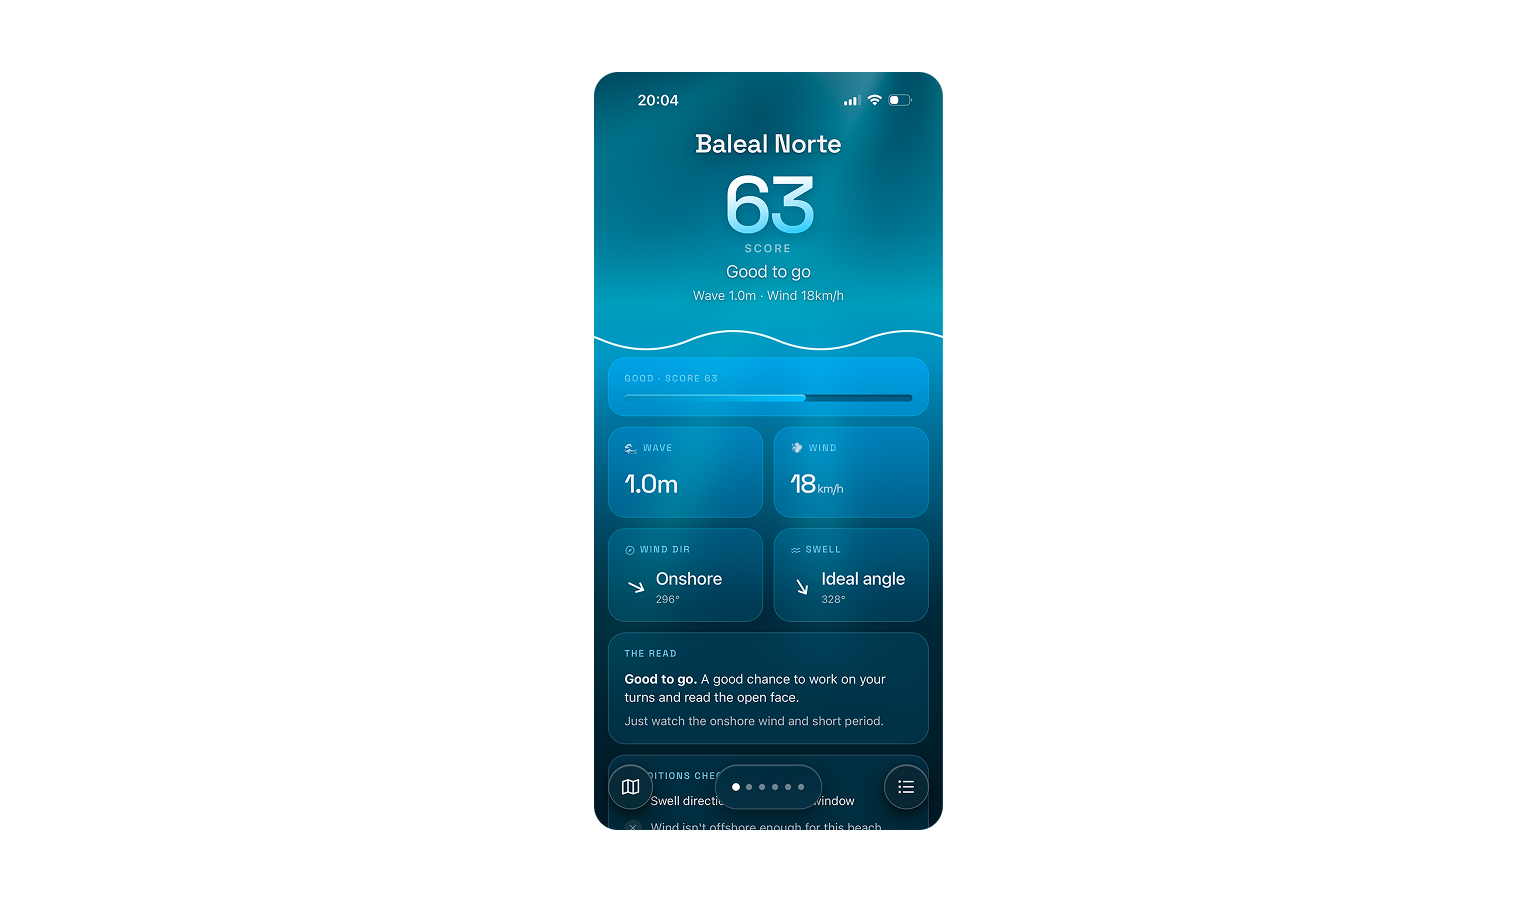
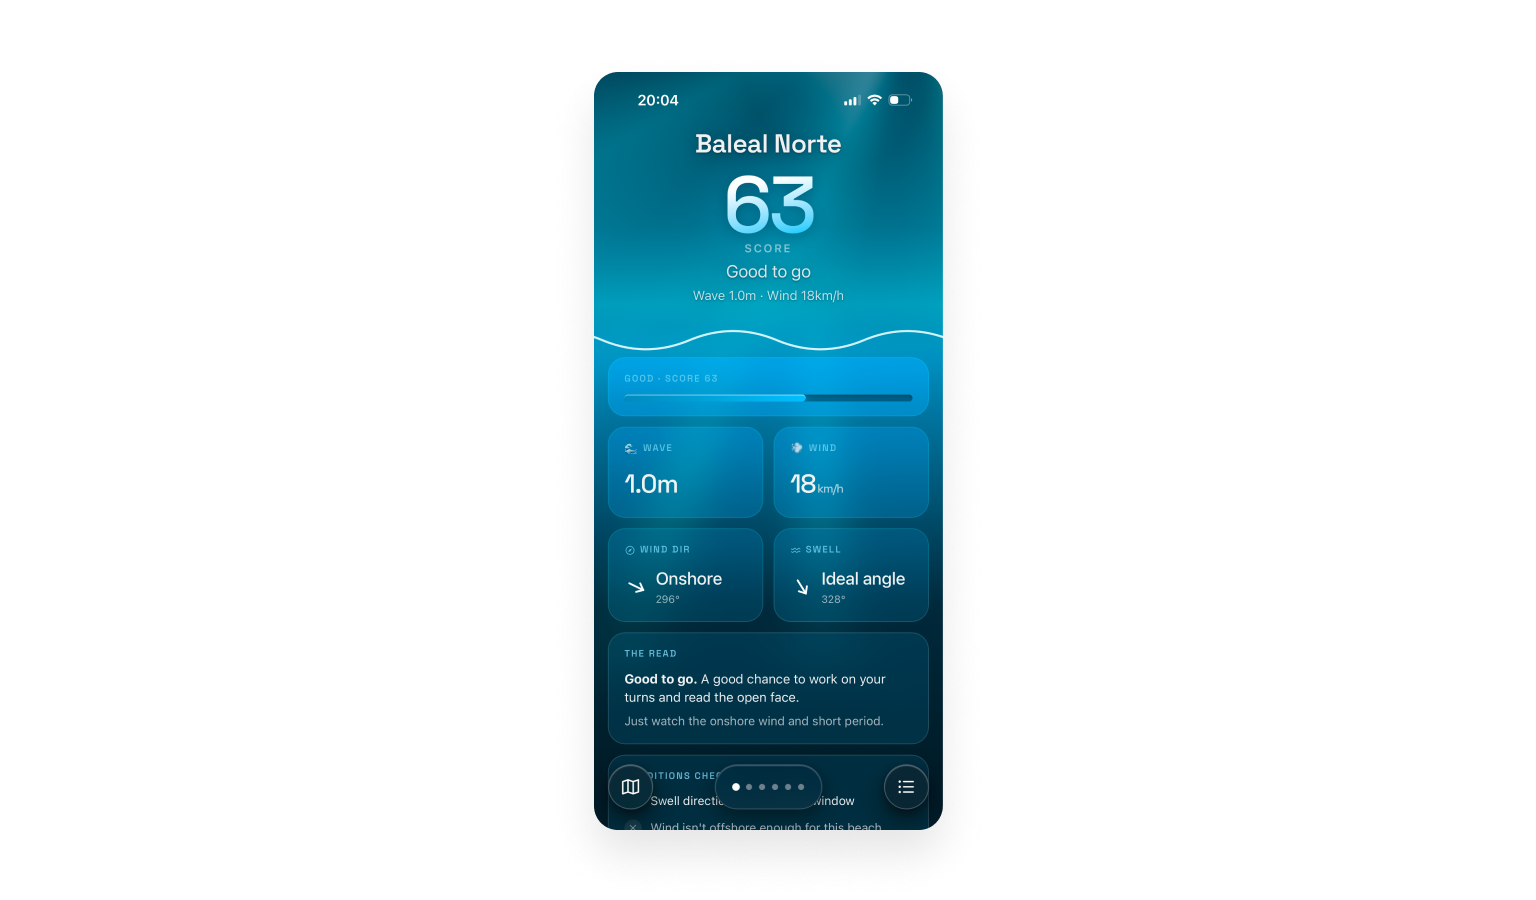
Fix hover color rotation, reorder work grid, and add auto dark mode
Realign hover palette to the actual project order, swap Swell
Club/Earr and Marketplace/AI Global Search positions, hide Sidebar
Navigation instead of Marketplace, soften dark-mode contact icons,
drop an em-dash from Swell Club copy, and default to dark mode after
18:00 Italy time.

diff --git a/src/app/data/projects.tsx b/src/app/data/projects.tsx
@@ -125,6 +125,29 @@ import image_swell_3 from 'figma:asset/swell club/3_swell-img-3.png';
 // Mock Data
 export const PROJECTS = [
   {
+    id: "swell-club",
+    title: "Swell Club",
+    category: "Side Project",
+    role: "Product Designer & Builder",
+    image: image_swell_cover,
+    description: "A surf-conditions PWA that turns raw forecast data into a single readable score, tuned to your skill level.",
+    additionalImages: [
+      image_swell_2,
+      image_swell_3,
+    ],
+    content: {
+      contribution: "Product design, Interaction design, Engineering (Claude Code), Architecture",
+      overview: (
+        <>
+          A mobile-first PWA for surfers checking conditions at Peniche and Ericeira. Instead of raw swell/wind/wave numbers, Swell Club scores each spot against your level (beginner, intermediate, advanced) and tells you plainly whether it's worth paddling out, with the reasoning behind the score, a live map, and per-spot detail pages with wind direction, swell angle, and wave height.
+        </>
+      ),
+      techStack: "React, TypeScript, Vite, n8n",
+      outcome: "swell-club-live-beta",
+      credits: "",
+    },
+  },
+  {
     id: "picky",
     title: "Earr",
     category: "Side Project",
@@ -147,29 +170,6 @@ export const PROJECTS = [
       outcome: "",
       techStack: "React, Vite, TypeScript, Tailwind, Framer Motion, Zustand, Claude API, Spotify Web API, YouTube Data API, GitHub Actions, Vercel",
       outcome: "picky-live-beta",
-      credits: "",
-    },
-  },
-  {
-    id: "swell-club",
-    title: "Swell Club",
-    category: "Side Project",
-    role: "Product Designer & Builder",
-    image: image_swell_cover,
-    description: "A surf-conditions PWA that turns raw forecast data into a single readable score, tuned to your skill level.",
-    additionalImages: [
-      image_swell_2,
-      image_swell_3,
-    ],
-    content: {
-      contribution: "Product design, Interaction design, Engineering (Claude Code), Architecture",
-      overview: (
-        <>
-          A mobile-first PWA for surfers checking conditions at Peniche and Ericeira. Instead of raw swell/wind/wave numbers, Swell Club scores each spot against your level (beginner, intermediate, advanced) and tells you plainly whether it's worth paddling out — with the reasoning behind the score, a live map, and per-spot detail pages with wind direction, swell angle, and wave height.
-        </>
-      ),
-      techStack: "React, TypeScript, Vite, n8n",
-      outcome: "swell-club-live-beta",
       credits: "",
     },
   },
@@ -228,6 +228,31 @@ export const PROJECTS = [
     }
   },
   {
+    id: "marketplace",
+    title: "Deel Marketplace",
+    category: "Product",
+    role: "Staff Product Designer",
+    image: image_marketplace_cover,
+    description: "A marketplace experience that lets companies discover, evaluate, and connect 80+ integrations to their Deel workspace",
+    additionalImages: [
+      image_marketplace_1,
+      image_marketplace_2,
+      image_marketplace_3,
+      image_marketplace_4,
+    ],
+    content: {
+      contribution: "UX design, Interaction design, Design systems",
+      overview: (
+        <>
+          A marketplace experience that lets companies discover, evaluate, and connect 80+ integrations to their Deel workspace — from HRIS and accounting tools to SSO providers and automation platforms.
+        </>
+      ),
+      outcome: "Covers discovery, per-app detail pages, guided install & provisioning flows, role-aware access (admin vs. employee vs. logged-out), post-install management, and a fully responsive layout — all built on Deel’s internal design system.",
+      techStack: "React, TypeScript, Deel UI Core",
+      credits: "",
+    },
+  },
+  {
     id: "3",
     title: "Deel AI Global Search",
     category: "Development",
@@ -257,31 +282,6 @@ export const PROJECTS = [
         techStack: "React Native, GraphQL, Node.js",
         credits: "Design: Coinbase Design Team\nDevelopment: Alex Morgan Studio"
     }
-  },
-  {
-    id: "marketplace",
-    title: "Deel Marketplace",
-    category: "Product",
-    role: "Staff Product Designer",
-    image: image_marketplace_cover,
-    description: "A marketplace experience that lets companies discover, evaluate, and connect 80+ integrations to their Deel workspace",
-    additionalImages: [
-      image_marketplace_1,
-      image_marketplace_2,
-      image_marketplace_3,
-      image_marketplace_4,
-    ],
-    content: {
-      contribution: "UX design, Interaction design, Design systems",
-      overview: (
-        <>
-          A marketplace experience that lets companies discover, evaluate, and connect 80+ integrations to their Deel workspace — from HRIS and accounting tools to SSO providers and automation platforms.
-        </>
-      ),
-      outcome: "Covers discovery, per-app detail pages, guided install & provisioning flows, role-aware access (admin vs. employee vs. logged-out), post-install management, and a fully responsive layout — all built on Deel’s internal design system.",
-      techStack: "React, TypeScript, Deel UI Core",
-      credits: "",
-    },
   },
   {
     id: "1",

diff --git a/src/app/components/CaseStudy.tsx b/src/app/components/CaseStudy.tsx
@@ -247,7 +247,7 @@ export const CaseStudy = ({ project, onClose, isDark }: CaseStudyProps) => {
                             : project.id === 'picky'
                             ? "A swipe-based music discovery PWA that aggregates album reviews from trusted critics and influencers — Pitchfork, Anthony Fantano, The Quietus, Tofu Media, Turning the Tables — into one fast, mobile-first feed. Swipe right to save, left to skip, tap to read the full review and open the album in Spotify or Apple Music."
                             : project.id === 'swell-club'
-                            ? "A mobile-first PWA for surfers checking conditions at Peniche and Ericeira. Instead of raw swell/wind/wave numbers, Swell Club scores each spot against your level (beginner, intermediate, advanced) and tells you plainly whether it's worth paddling out — with the reasoning behind the score, a live map, and per-spot detail pages with wind direction, swell angle, and wave height."
+                            ? "A mobile-first PWA for surfers checking conditions at Peniche and Ericeira. Instead of raw swell/wind/wave numbers, Swell Club scores each spot against your level (beginner, intermediate, advanced) and tells you plainly whether it's worth paddling out, with the reasoning behind the score, a live map, and per-spot detail pages with wind direction, swell angle, and wave height."
                             : project.id === '8'
                             ? "I designed the seller messaging flow at Proprioo to help agents move from raw contact lists to targeted, contextual outreach. The experience brings together contact selection, status-based filtering, and message creation into a single, structured workflow, reducing friction and helping agents focus on the right sellers at the right time. By aligning data, actions, and messaging in one flow, the system improved efficiency, clarity, and consistency across agent communication."
                             : project.content.overview}

diff --git a/src/app/components/WorkGrid.tsx b/src/app/components/WorkGrid.tsx
@@ -18,12 +18,12 @@ interface WorkGridProps {
 }
 
 const CARD_COLORS_LIGHT = [
-  "#FFFFFF", // 1. Picky
+  "#FFFFFF", // 1. Earr
   "#FFFFFF", // 2. Swell Club
   "#FFFFFF", // 3. AI Filter
-  "#FFFFFF", // 4. Marketplace
-  "#FFFFFF", // 5. Agentic UI Builder
-  "#FFFFFF", // 6. AI Global Search
+  "#FFFFFF", // 4. Agentic UI Builder
+  "#FFFFFF", // 5. AI Global Search
+  "#FFFFFF", // 6. Marketplace
   "#FFFFFF", // 7. AI System
   "#FFFFFF", // 8. Sidebar
   "#FFFFFF", // 9. Casavo (hidden)
@@ -31,12 +31,12 @@ const CARD_COLORS_LIGHT = [
 ];
 
 const CARD_COLORS_DARK = [
-  "#2C2C30", // 1. Picky
+  "#2C2C30", // 1. Earr
   "#2C2C30", // 2. Swell Club
   "#2C2C30", // 3. AI Filter
-  "#2C2C30", // 4. Marketplace
-  "#2C2C30", // 5. Agentic UI Builder
-  "#2C2C30", // 6. AI Global Search
+  "#2C2C30", // 4. Agentic UI Builder
+  "#2C2C30", // 5. AI Global Search
+  "#2C2C30", // 6. Marketplace
   "#2C2C30", // 7. AI System
   "#2C2C30", // 8. Sidebar
   "#2C2C30", // 9. Casavo (hidden)
@@ -44,16 +44,16 @@ const CARD_COLORS_DARK = [
 ];
 
 const CARD_HOVER_COLORS: string[] = [
-  "#252429", // 1. Picky
-  "#2AAFAE", // 2. Swell Club
-  "#C6914D", // 3. AI Filter
-  "#498EFF", // 4. Marketplace
-  "#86BFE9", // 5. Agentic UI Builder
-  "#252429", // 6. AI Global Search
-  "#C6914D", // 7. AI System
-  "#498EFF", // 8. Sidebar
-  "#86BFE9", // 9. Casavo (hidden)
-  "#252429", // 10. Proprioo (hidden)
+  "#252429", // 1. Earr
+  "#C6914D", // 2. Swell Club
+  "#498EFF", // 3. AI Filter
+  "#86BFE9", // 4. Agentic UI Builder
+  "#252429", // 5. AI Global Search
+  "#C6914D", // 6. Marketplace
+  "#498EFF", // 7. AI System
+  "#86BFE9", // 8. Sidebar
+  "#252429", // 9. Casavo (hidden)
+  "#C6914D", // 10. Proprioo (hidden)
 ];
 
 export const WorkGrid = ({ projects, onProjectClick, introContent, isDark }: WorkGridProps) => {

diff --git a/src/app/App.tsx b/src/app/App.tsx
@@ -16,10 +16,18 @@ import SpotifyWidget from "./components/SpotifyWidget";
 
 import { PROJECTS } from "./data/projects";
 
+// Defaults to dark mode in the evening/night (18:00–06:00 Italy time); manual toggle still overrides.
+function getIsDarkByItalianTime() {
+  const hour = Number(
+    new Intl.DateTimeFormat("en-GB", { timeZone: "Europe/Rome", hour: "2-digit", hour12: false }).format(new Date())
+  );
+  return hour >= 18 || hour < 6;
+}
+
 export default function App() {
   const [selectedProjectId, setSelectedProjectId] = useState<string | null>(null);
   const [activeTab, setActiveTab] = useState<string>('work');
-  const [isDark, setIsDark] = useState(false);
+  const [isDark, setIsDark] = useState(getIsDarkByItalianTime);
 
   const selectedProject = PROJECTS.find((p) => p.id === selectedProjectId);
 
@@ -77,7 +85,7 @@ export default function App() {
                             </div>
                         </div>
                     )}
-                    projects={PROJECTS.filter(p => p.id !== '8' && p.id !== '7')}
+                    projects={PROJECTS.filter(p => p.id !== '8' && p.id !== '7' && p.id !== '5')}
                     onProjectClick={setSelectedProjectId} className="text-[24px] text-left px-[0px] py-[22px] rounded-[36px]"
                     isDark={isDark}
                 />

diff --git a/src/app/components/ContactCard.tsx b/src/app/components/ContactCard.tsx
@@ -38,7 +38,7 @@ export function ContactCard({ isDark }: { isDark?: boolean }) {
         >
           <IconWrapper viewBox="0 0 91 91" className="translate-y-[15%] md:translate-y-0">
             <g id="mail_icon">
-              <path d={svgPaths.p358554f0} fill="currentColor" className={isDark ? "text-white" : "text-black"} />
+              <path d={svgPaths.p358554f0} fill="currentColor" className={isDark ? "text-neutral-300" : "text-black"} />
             </g>
           </IconWrapper>
         </div>
@@ -50,7 +50,7 @@ export function ContactCard({ isDark }: { isDark?: boolean }) {
         <a href="https://www.linkedin.com/in/davide-montesano/" target="_blank" rel="noopener noreferrer" className="pointer-events-auto flex-none rotate-[18.374deg] block hover:scale-110 transition-transform duration-300 w-full h-full">
           <IconWrapper viewBox="0 0 86.6628 86.6628" className="translate-y-[10%] md:translate-y-0">
             <g id="linkedin_icon">
-              <path d={svgPaths.p392bf600} fill="currentColor" className={isDark ? "text-white" : "text-black"} />
+              <path d={svgPaths.p392bf600} fill="currentColor" className={isDark ? "text-neutral-300" : "text-black"} />
             </g>
           </IconWrapper>
         </a>
